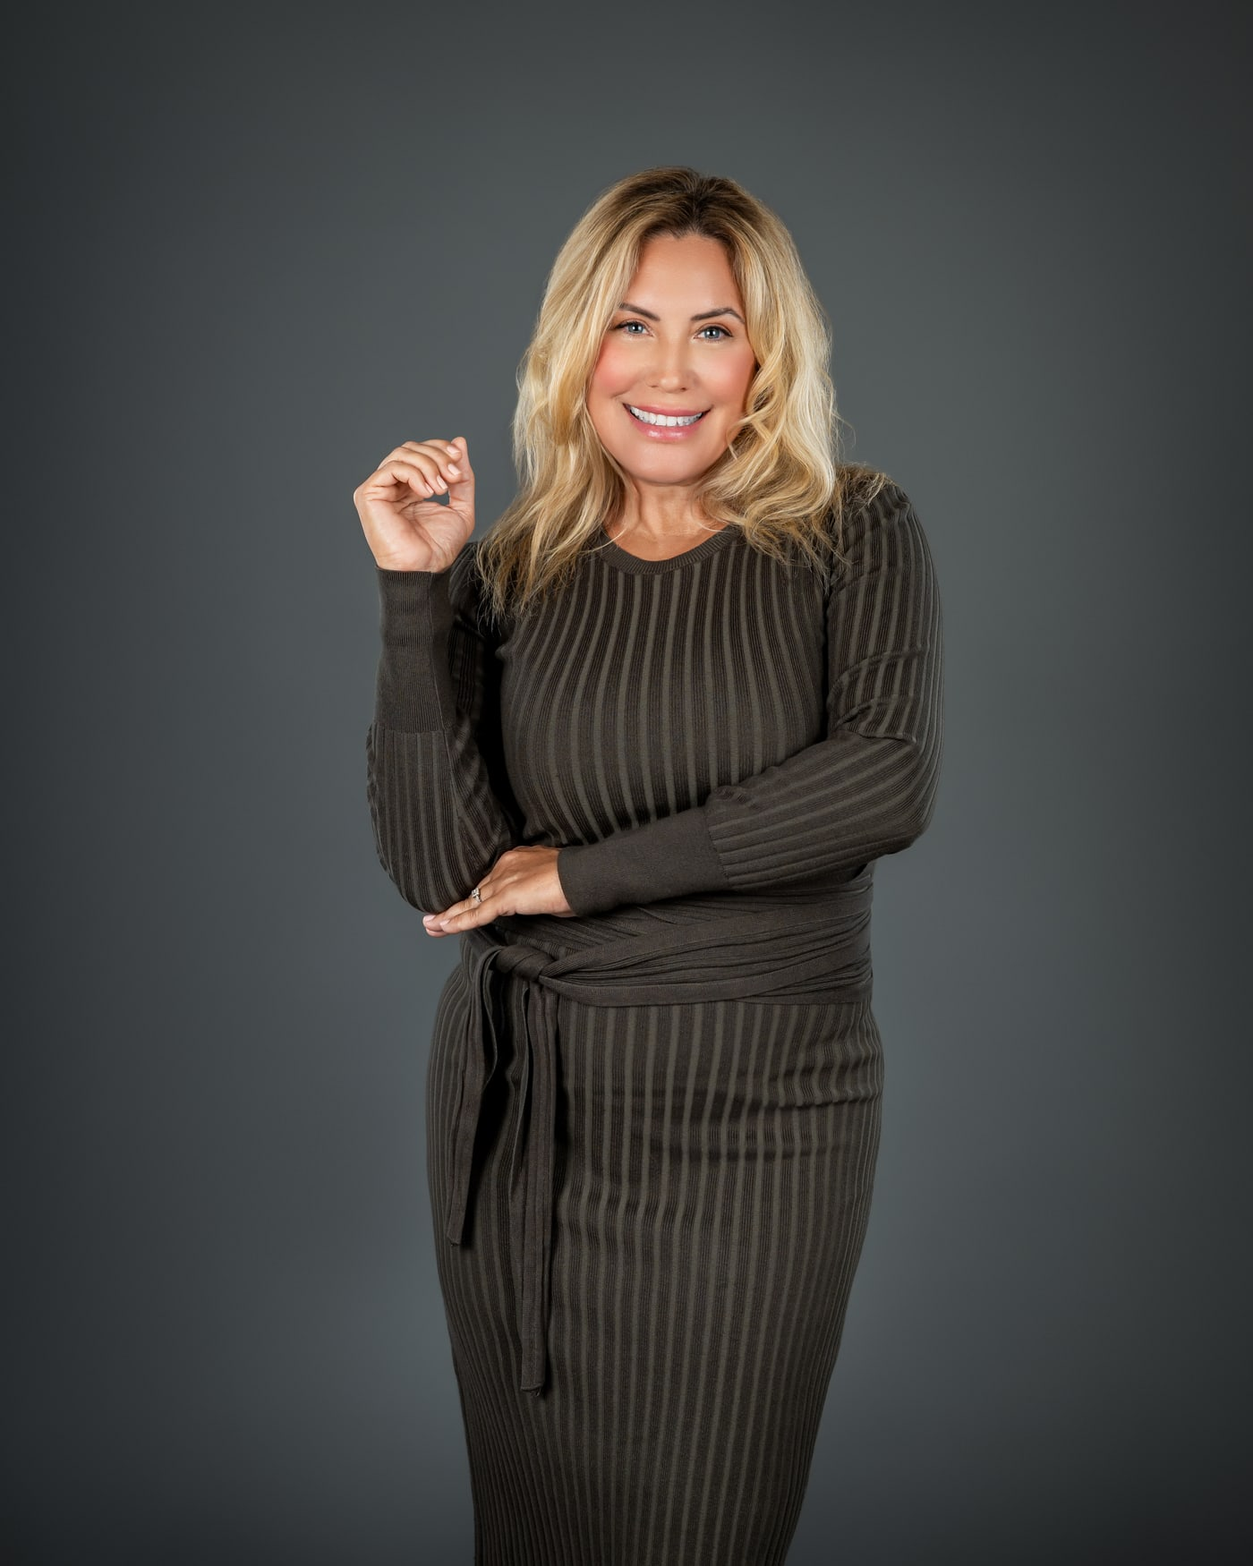
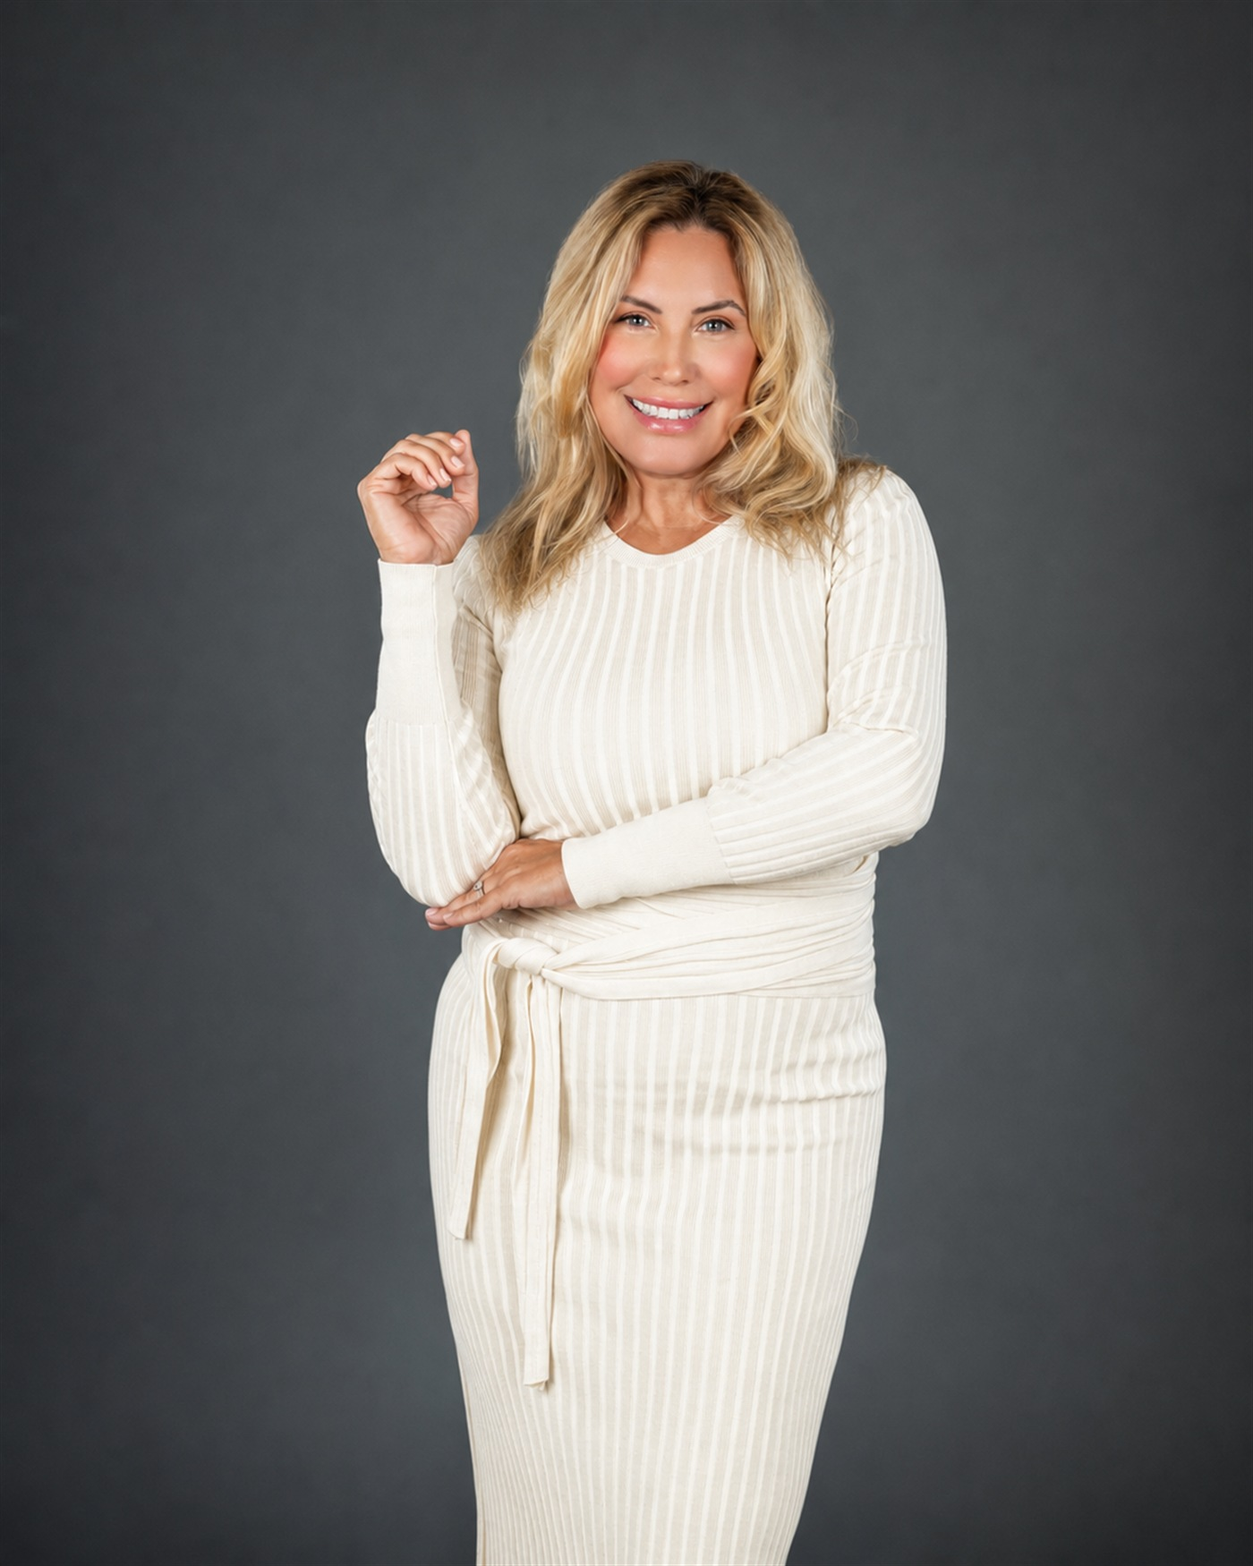
fix(booking): redirect dead prep-guide URL; brighten portrait; GHL docs
The appointment-confirmation email sent from GHL links to
/QHHT-Subject-Preparation-Guide-1.pdf, which 404s. The real file lives at
/dodie/qhht-pre-session-prep-guide.pdf. Adding a _redirects rule fixes every
already-sent email retroactively, so the GHL template edit is optional.

Also ignores .local-notes/ (GHL admin screenshots containing client PII —
this repo is public), _to_delete/ (stray git lock files) and the IntellaGrow
proposal files.

Changed region(s): [[0.2764, 0.0926, 0.7679, 1.0]]

diff --git a/BRIGHTEN-PLAN.md b/BRIGHTEN-PLAN.md
@@ -1,0 +1,216 @@
+# Kendall Sites: "Make It Brighter" Plan + Prompts
+
+Prepared for Mark, 2026-06-17. Covers both Astro sites (Guiding Winds Unplug and DodieKendall.com QHHT), Dodie's brightness feedback, Clint's title changes, and the brown-dress photo edit. Nothing has been changed in code yet. This is the plan and the paste-ready prompts so you can run it bit by bit with client sign-off.
+
+---
+
+## 1. What Dodie actually means by "too dark"
+
+She is right, and it is not a dark-mode problem. Both sites are built in light mode, but they use a deliberate "dark editorial drama" device: big near-black and deep-night section bands, and heavy dark gradient scrims laid over the hero photos. So even with sunshine imagery, the dominant impression is dark and heavy.
+
+Here is where the darkness actually comes from, in the real code:
+
+**Guiding Winds Unplug**
+- The core text/ink color `--color-primary` is `#0F0F0F` (near black), and it is reused as a hero overlay. Example, `src/pages/lp-1.astro`: a full-screen scrim `bg-gradient-to-t from-primary via-primary/55 to-primary/35` sits on top of the hero photo.
+- `lp-1` literally uses a night photo: `/img/source/hero/05-caribbean-night-moonlit.jpg`.
+- Deep-teal and near-black bands: `--color-teal-shadow #0E3F47`, `--color-surface-warm #1F1B17`, `--color-warm-mid #3A2F25` are used for full-width section panels (aboard, about, voyages, experiences, calendar).
+- The home hero section is `bg-primary text-bone` (near-black base) behind the video reels.
+
+**DodieKendall.com (QHHT)**
+- The home hero is a deep-night panel: `src/components/HomeHero.astro` is `bg-bg-inverse-deeper text-inverse min-h-[100vh]`, where `--bg-inverse-deeper` is oklch `0.10 0.020 240` (almost black blue).
+- Same deep-night treatment on `ClosingCTA.astro`, `TestimonialGrid.astro`, and `landing-page-3.astro`.
+- The `.bg-aurora` helper is a dark-night base with a teal/coral wash. Dramatic, but dark.
+
+The good news: the bright palette Dodie is asking for already exists in both themes. It is just used as small accents on top of dark instead of leading. GW already has sun gold `#E8A340`, soft teal `--color-teal-soft / --color-teal-mist`, sage, paper off-whites. DK already has teal-glow, coral-pink (`--brand-primary`), a gold accent (`--brand-accent`), sage, and a ready-made light `.bg-sunrise` gradient.
+
+So "brighter, more aqua and white and pinks and gold, sun-light bright and happy" translates cleanly to three moves:
+1. Flip the dominant section surfaces from dark to light and airy (paper/white, teal-mist, sunrise).
+2. Lighten or remove the dark hero scrims, and swap night/dusk photos for bright daytime turquoise shots.
+3. Promote the aqua, gold, and pink that are already in the palette so they lead instead of sitting on black.
+
+---
+
+## 2. Yes, do it bit by bit. Here is the recommended cadence.
+
+Doing this in one big pass is the wrong move. If they do not love the direction, you have redone 20 pages for nothing. Pilot one screen per site first, get a thumbs up, then roll the same tokens and pattern across everything.
+
+**Stage 0, pilot (do this first, ~1 screen per site).** Rework only the home hero on each site to the bright direction. Push to the cloud, send Dodie the two links, ask "is this the feeling you and Clint want?" One yes here de-risks the entire job.
+
+**Stage 1, global tokens + section bands.** Once approved, lighten the recurring dark section panels site-wide by editing a small number of tokens and swapping the heavy band classes. This is where 80% of the "dark" feeling disappears for the least effort.
+
+**Stage 2, hero imagery + scrims.** Replace night/dusk photos with bright daytime ones and soften remaining overlays.
+
+**Stage 3, cleanup.** Footers, testimonial sections, closing CTAs, and any one-off dark panels.
+
+**Stage 4, titles + photo.** Apply Clint's approved taglines and drop in the brightened dress photo.
+
+Verification gate after every stage: you push to cloud, Dodie refreshes the link, she confirms before you move on. That matches exactly what you told her in the texts.
+
+---
+
+## 3. The brightness levers, mapped to real files
+
+### Guiding Winds Unplug
+Token file: `guidingwinds-unplug/src/styles/theme.css` (auto-generated, see note) and the extra `@theme` block in `src/styles/global.css`.
+
+Note: `theme.css` is regenerated from `DESIGN.md` by `scripts/design-export.mjs`. Do not hand-edit `theme.css`. Change the value in `DESIGN.md` then run `npm run design:export`, or change it in the `global.css` `@theme` block which Tailwind v4 merges on top.
+
+Lighten or retire on big panels:
+- `bg-surface-warm` (#1F1B17) and `bg-warm-mid` (#3A2F25): swap section usages to `bg-paper`, `bg-teal-mist`, or `bg-sage`.
+- `bg-teal-shadow` (#0E3F47) full-width bands: switch to `bg-teal-soft` (#B9CFD3) or `bg-teal-mist` (#DCE7E9).
+- Hero scrims `from-primary via-primary/55`: reduce to `from-primary/30 via-transparent` or a white-bottom gradient so the photo stays bright.
+
+Highest-impact files (most dark usage): `pages/voyages/index.astro`, `pages/about.astro`, `pages/voyages/[slug].astro`, `pages/experiences.astro`, `pages/aboard.astro`, `components/shared/SectionInterrupt.astro`, `pages/calendar.astro`, `components/home/TestimonialRow.astro`.
+
+### DodieKendall.com (QHHT)
+Token file: `src/styles/global.css` `:root` block (oklch), mirrored in `tailwind.config.mjs`.
+
+Lighten or retire:
+- Home hero `HomeHero.astro`: change `bg-bg-inverse-deeper text-inverse` to a light treatment, either `bg-sunrise` (existing warm light gradient) or `bg-base` with a soft `bg-aurora`-style teal-glow wash. Switch `text-inverse` to `text-ink`.
+- `ClosingCTA.astro`, `TestimonialGrid.astro`, `landing-page-3.astro` hero, and the `py-24` `bg-bg-inverse-deeper` band: same flip to light, or to a bright teal-glow tint.
+- If you want to keep one dramatic dark moment for contrast, keep it only on the closing CTA and make everything above it bright.
+
+Highest-impact files: `components/HomeHero.astro`, `components/TestimonialGrid.astro`, `components/ClosingCTA.astro`, `pages/landing-page-3.astro`, `pages/about.astro`, `pages/faq.astro`, `pages/qhht.astro`, `components/ThreeAct.astro`.
+
+---
+
+## 4. Paste-ready prompts (run one stage at a time)
+
+These are written to hand to your coding assistant against each repo. They reference the real files and tokens above.
+
+### Prompt A, Stage 0 pilot, Guiding Winds home hero
+```
+Repo: guidingwinds-unplug. Goal: make the HOME hero feel sun-bright and happy
+(aqua, white, gold) without a full redesign. Only touch the home hero.
+
+1. In src/components/home/Hero.astro, change the section base from
+   `bg-primary text-bone` to a light treatment: `bg-bone text-primary`, and
+   make the photo/video overlay a soft light scrim instead of near-black.
+   Replace any `from-primary` overlay with
+   `bg-gradient-to-t from-bone/70 via-transparent to-transparent` so the
+   daytime image reads bright.
+2. Keep the gold (`text-sun`) star rating and use `text-accent` sparingly.
+3. For the first poster scene, prefer a bright daytime turquoise shot over a
+   sunset/dusk one if available in /public/img.
+Do not change any other page. Build and report the diff.
+```
+
+### Prompt B, Stage 0 pilot, DodieKendall home hero
+```
+Repo: dodiekendall-website-redo. Goal: make the HOME hero bright, airy, and
+welcoming (aqua/teal-glow, white, soft pink, gold), not deep-night.
+Only touch the home hero.
+
+1. In src/components/HomeHero.astro, change the section from
+   `bg-bg-inverse-deeper text-inverse` to a light treatment. Use the existing
+   `.bg-sunrise` gradient (warm light) OR `bg-bg-base` with a subtle teal-glow
+   radial wash. Change `text-inverse` to `text-ink` and any inverse-muted text
+   to `text-ink-secondary`.
+2. Keep coral-pink (`brand`) and gold (`accent`) as accents, add a touch of
+   `teal-glow` so it feels aqua and happy.
+3. Ensure contrast still passes AA on the lighter background.
+Do not change any other component or page. Build and report the diff.
+```
+
+### Prompt C, Stage 1, Guiding Winds section bands (after pilot approved)
+```
+Repo: guidingwinds-unplug. Lighten the recurring dark section bands site-wide.
+- Replace full-width `bg-surface-warm` and `bg-warm-mid` section panels with
+  `bg-paper` or `bg-teal-mist`; switch their text back to `text-primary`.
+- Replace `bg-teal-shadow` full-width bands with `bg-teal-soft` (or `bg-teal-mist`
+  for editorial breaks); adjust text to `text-primary`.
+- Keep `text-accent` and `text-sun` as accents.
+Files to cover first: pages/voyages/index.astro, pages/about.astro,
+pages/voyages/[slug].astro, pages/experiences.astro, pages/aboard.astro,
+components/shared/SectionInterrupt.astro, pages/calendar.astro,
+components/home/TestimonialRow.astro.
+Leave the "In the price" card animation intact. Build and report the diff.
+```
+
+### Prompt D, Stage 1, DodieKendall dark sections
+```
+Repo: dodiekendall-website-redo. Flip the deep-night section bands to bright.
+- In TestimonialGrid.astro, ClosingCTA.astro, and the bg-bg-inverse-deeper bands
+  in landing-page-3.astro, about.astro, faq.astro, qhht.astro, ThreeAct.astro:
+  change `bg-bg-inverse-deeper` / `bg-aurora` to `bg-bg-base` or `bg-sunrise`,
+  and `text-inverse*` to `text-ink*`.
+- You may keep ONE dark dramatic moment on the final ClosingCTA only; make
+  everything above it bright. Confirm with me which one to keep.
+- Use teal-glow + brand (coral-pink) + accent (gold) as the new accents.
+Build and report the diff.
+```
+
+### Prompt E, Stage 2, hero imagery + scrims
+```
+Both repos. Replace night/dusk hero photos with bright daytime turquoise shots,
+and reduce any remaining dark gradient scrims to <=30% opacity at the bottom
+edge only. Specifically in guidingwinds: lp-1.astro currently uses
+/img/source/hero/05-caribbean-night-moonlit.jpg with a
+`from-primary via-primary/55 to-primary/35` scrim. Swap to a daytime image and
+reduce the scrim. List every hero image you changed.
+```
+
+Run E only after Stage 1 lands, because once the bands are light, you will see exactly which photos still drag the mood down.
+
+---
+
+## 5. Clint's title changes
+
+The five lines Clint sent are all sailing-themed, so they belong to Guiding Winds, not the QHHT site. Dodie said she likes all of them and especially "What If One Week Could Change Everything?"
+
+Current Guiding Winds headlines, with file and line so a swap is a one-line edit:
+- Home hero (`pages/index.astro`, lines 52 to 54): "Where guests become crew... the path back to presence."
+- `lp-1.astro` (h1 around line 29): "You don't need another vacation. You need a week off the grid."
+- `lp-2.astro` (h1 around line 35): ends in emphasis "rest."
+- `lp-3.astro` (h1 around line 34): ends in emphasis "one of six."
+
+Suggested mapping (for Clint to confirm, not final):
+- "What If One Week Could Change Everything?" -> `lp-1` hero (her favorite, highest-intent page).
+- "More Than a Vacation. A Complete Reset." -> home hero eyebrow/headline.
+- "A Floating Retreat for the Adventurous Soul." -> `lp-2` or `lp-3`.
+- "Escape the Ordinary. Sail the Extraordinary." and "Not All Treasure Is Gold. Sometimes It's Peace of Mind." -> hold as alternates / section interrupts.
+
+One thing to nail down with Clint before editing: which existing title each new line replaces, and on which page. Once he says "use this one here," each is a literal text swap in the file above. Note the headlines use a two-part structure (a plain prefix plus an italic accent span in `text-accent`), so for a line like "What If One Week Could Change Everything?" decide which words get the italic gold/accent treatment, for example italicizing "Change Everything?".
+
+The QHHT site titles are not in Clint's five lines. If he wants those changed too, ask him to send QHHT-specific ones and I will map them the same way.
+
+---
+
+## 6. Brown dress to white, brightened, AI image prompt (prompt only, per your call)
+
+Use this in an image editor that does identity-preserving edits (Photoshop with Firefly generative fill, Google nano-banana / Gemini image, or GPT image edit). Upload the highest-resolution original you have. If your tool supports masking, mask just the dress for the recolor step and do the brightening as a second pass on the whole image.
+
+Primary prompt:
+```
+Edit this photograph of the same woman, same face, same hairstyle, same pose,
+same camera angle and background. Change only her brown dress into an elegant
+flowing white/ivory dress in a similar style and fit, with natural fabric folds
+and soft, realistic lighting that matches the scene. Then brighten the overall
+image: lift the shadows, increase exposure slightly, add a warm sunlit glow and
+gentle airy highlights so it feels bright, happy, and luminous. Keep skin tones
+natural and true to life. Photorealistic, high detail, no change to her facial
+features or identity.
+```
+
+Guardrails / negative prompt (if your tool has a negative field):
+```
+do not change her face, do not alter her body shape, no plastic or waxy skin,
+no extra people, no warped hands, no oversaturation, no harsh HDR halos,
+keep the background unchanged
+```
+
+Tips: generate 3 to 4 variations and pick the most natural fabric. If the white blows out, run a second pass: "recover highlight detail in the white dress, keep it bright but not clipped." Keep the original on file so you can redo if Dodie wants a warmer ivory vs pure white.
+
+---
+
+## 7. A short note you can send Dodie
+
+> Got it, thank you both. I know exactly what you mean about the sites feeling dark even though they are in light mode. There are some heavy dark panels and shadowed photos pulling the mood down, and I am going to lighten those and bring up the aqua, white, gold, and soft pink so it feels sun-bright and happy. I will start with just the top of each site as a sample, push it to the cloud, and send you the two links. Take a look, and if that is the feeling you and Clint want, I will roll it across both whole sites. Send Clint's title picks whenever you have them and I will drop them in.
+
+---
+
+## Open items before code changes
+1. Stage 0 pilot approval from Dodie/Clint on the two home heroes.
+2. Clint to confirm which title replaces which page (Guiding Winds), and whether he wants QHHT titles changed too.
+3. Whether to keep one intentional dark "drama" moment on the DodieKendall closing CTA, or go fully bright.
+4. The source dress photo (when you are ready to run the image edit).

diff --git a/GHL-PREP-GUIDE-DELIVERY.md b/GHL-PREP-GUIDE-DELIVERY.md
@@ -1,0 +1,159 @@
+# Prep-Guide Auto-Delivery — build spec
+
+> **Goal (from Dodie, 2026-06-17):** Automatically email the QHHT Pre-session
+> Integration Guide to anyone who **books a session** or signs up for the
+> **Inner Activation Value Stack**, with no manual step.
+>
+> This doc is the build-ready spec: paste-ready email copy + the exact GHL
+> workflow changes. Pair with `GHL-INTEGRATION.md` and `ENV.md`.
+
+---
+
+## 1. Decisions locked (2026-06-17)
+
+| Decision | Choice |
+| --- | --- |
+| **Timing** | Both — deliver immediately on booking **and** a gentle reminder ~2 days before the session. Implement by **modifying Dodie's existing automations**, not building parallel ones. |
+| **Value Stack trigger** | A **tag** applied by the Value Stack form / questionnaire submission (e.g. `inner-activation`). Workflow triggers on *tag added*. |
+| **Greeting** | **Personalize in the email** (`{{contact.first_name}}`); ship a **generic PDF**. The PDF currently hardcodes "Welcome, John!" — Dodie to re-export from Canva with **"Welcome, beautiful soul!"** (already used in an earlier version per the file metadata). |
+| **PDF delivery** | **Link**, not attachment (better inbox deliverability). Hosted on the site. |
+
+## 2. The hosted guide
+
+- File: `public/dodie/qhht-pre-session-prep-guide.pdf` (renamed from the
+  space-filled original so the URL is clean).
+- Public URL after deploy: **`https://dodiekendall.com/dodie/qhht-pre-session-prep-guide.pdf`**
+- ⚠ Replace this file with Dodie's re-exported **generic** version (no "John")
+  before launch. Same filename = no other change needed.
+
+## 3. Workflow changes (in Dodie's QHHT subaccount only — `6pOamCMOsrYqjbufLI5y`)
+
+> ⚠ **API limitation (verified 2026-06-17):** GHL's public API is read-only for
+> workflows (no detail/step endpoint — returns 404), and the experimental CLI can
+> only *create new* workflows, not edit existing ones. **Editing the steps of an
+> existing workflow must be done in the GHL UI.** Since the plan is to modify
+> existing automations (to avoid duplicate emails), these edits are UI edits.
+
+### Relevant existing workflows (live, pulled 2026-06-17)
+
+| Workflow | ID | Status | Role |
+| --- | --- | --- | --- |
+| **QHHT Deposit & Prep** | `b853c622-bc90-4c89-942d-be55def4a349` | published | **Primary target** — likely already sends prep info post-booking |
+| QHHT Appointment Confirmation | `7b506f41-a7fe-43ff-ab20-cbe0be6b24db` | published | Confirmation email on booking |
+| Calendar Booking DK QHHT | `088116af-e3d6-4ed6-9559-93e1159833e5` | published | Booking trigger |
+| Questionnaire submitted (removes from reminder) | `461e844e-eac9-4c81-9369-c29e283bebe5` | draft | **Value Stack path** — fires on questionnaire submit |
+| Appointment Reminders - No-Fluff Template | `e9558eb3-e861-49c4-8b7c-4975859f252d` | draft | Candidate home for the 2-day reminder |
+
+Booking calendar: **`BMH5KWMN8ncgnlLupep5`** — "Dodie Kendall QHHT Hypnotherapy Book a Session".
+
+### Path A — Booking
+1. Open **QHHT Deposit & Prep** in the GHL UI. **If it already sends a prep
+   guide**, just update the link/attachment to the hosted URL in §2 — done.
+   Otherwise add an **email step** sending **Email 1** (below) after the existing
+   confirmation email.
+2. For the ~2-day-before reminder, add a **Wait until 2 days before appointment**
+   step + **Email 2**, or fold it into the existing reminder workflow.
+
+### Path B — Inner Activation Value Stack
+1. Trigger: **Contact tag added = `inner-activation`** (applied by the Value
+   Stack form / questionnaire submission) — or add an email step to the existing
+   **Questionnaire submitted** workflow.
+2. Send **Email 1** (same guide). No appointment date exists for this path, so
+   **skip the 2-day reminder** unless/until a session is also booked.
+
+> If a contact both books *and* buys the stack, dedupe by gating Email 1 on a
+> "guide already sent" tag (`prep-guide-sent`) so they don't get it twice.
+
+---
+
+## 4. Paste-ready email copy
+
+Merge field: `{{contact.first_name}}`. Voice per `BRAND-VOICE.md` (warm,
+second-person, gentle — not hype-y). Link button → the hosted PDF URL above.
+
+### Email 1 — on booking / on Value Stack signup
+
+**Subject:** Your guide for what's ahead
+**Preview text:** A few gentle ways to prepare before we meet.
+
+```
+Welcome, {{contact.first_name}}.
+
+You've taken a real step toward your own self-discovery — and I'm glad
+you're coming in.
+
+Before we meet, I've put together a short Pre-session Integration Guide.
+It walks you through a few gentle ways to prepare: how to settle your
+energy, how to shape the questions you'd like to bring, and what to expect
+on the day. None of it is heavy. Most of it you can do in the days leading
+up to your session.
+
+  →  Read your Pre-session Integration Guide
+     (button → https://dodiekendall.com/dodie/qhht-pre-session-prep-guide.pdf)
+
+One small piece of homework: somewhere quiet, write down three to five
+questions you'd like to ask your Higher Self. Bring them with you. We'll
+go through them together.
+
+There's nothing you need to get "right" here. Come as you are.
+
+With warmth,
+Dodie
+
+—
+QHHT is a complementary practice, not medical or psychological treatment.
+It does not diagnose, treat, cure, or prevent any condition.
+```
+
+### Email 2 — ~2 days before the session (booking path only)
+
+**Subject:** A gentle check-in before your session
+**Preview text:** Your questions, a little rest, and what to expect.
+
+```
+Hi {{contact.first_name}},
+
+Your session is almost here. A few small things help it land well:
+
+  •  Drink plenty of water over the next couple of days.
+  •  Eat light, and ease off caffeine and alcohol the day before.
+  •  Get good sleep the night before — a rested mind is more open.
+  •  Finish your three to five questions and bring them with you.
+
+If you'd like to revisit the full guide, it's here:
+
+  →  Read the Pre-session Integration Guide
+     (button → https://dodiekendall.com/dodie/qhht-pre-session-prep-guide.pdf)
+
+You don't need to prepare perfectly. Trust the process — your experience
+will be exactly what you need it to be. See you soon.
+
+With warmth,
+Dodie
+
+—
+QHHT is a complementary practice, not medical or psychological treatment.
+It does not diagnose, treat, cure, or prevent any condition.
+```
+
+---
+
+## 5. What's needed to finish (blockers)
+
+1. **Dodie's QHHT Private Integration Token** — *not* in the repo
+   (`GHL_PRIVATE_INTEGRATION_TOKEN` is empty in `.dev.vars`; it lives only as a
+   Cloudflare Secret, which is write-only). Paste it into `.dev.vars` (or hand it
+   over) so the existing workflows can be listed and modified programmatically.
+2. **Firebase refresh token** (`GHL_FIREBASE_REFRESH_TOKEN`) — only if we end up
+   *editing workflow internals* via the experimental API. The public API is
+   read-only for workflows; the *Appointment booked* trigger config may still
+   require a one-time touch in the GHL UI.
+3. **Generic PDF re-export** from Dodie (drop "John" → "Welcome, beautiful soul!").
+4. **Confirm the Value Stack tag name** the form/questionnaire applies
+   (assumed `inner-activation`).
+5. **Calendar ID** (`GHL_CALENDAR_ID`) for verifying the booking trigger targets
+   the right calendar.
+
+---
+
+*Last updated: 2026-06-17.*
